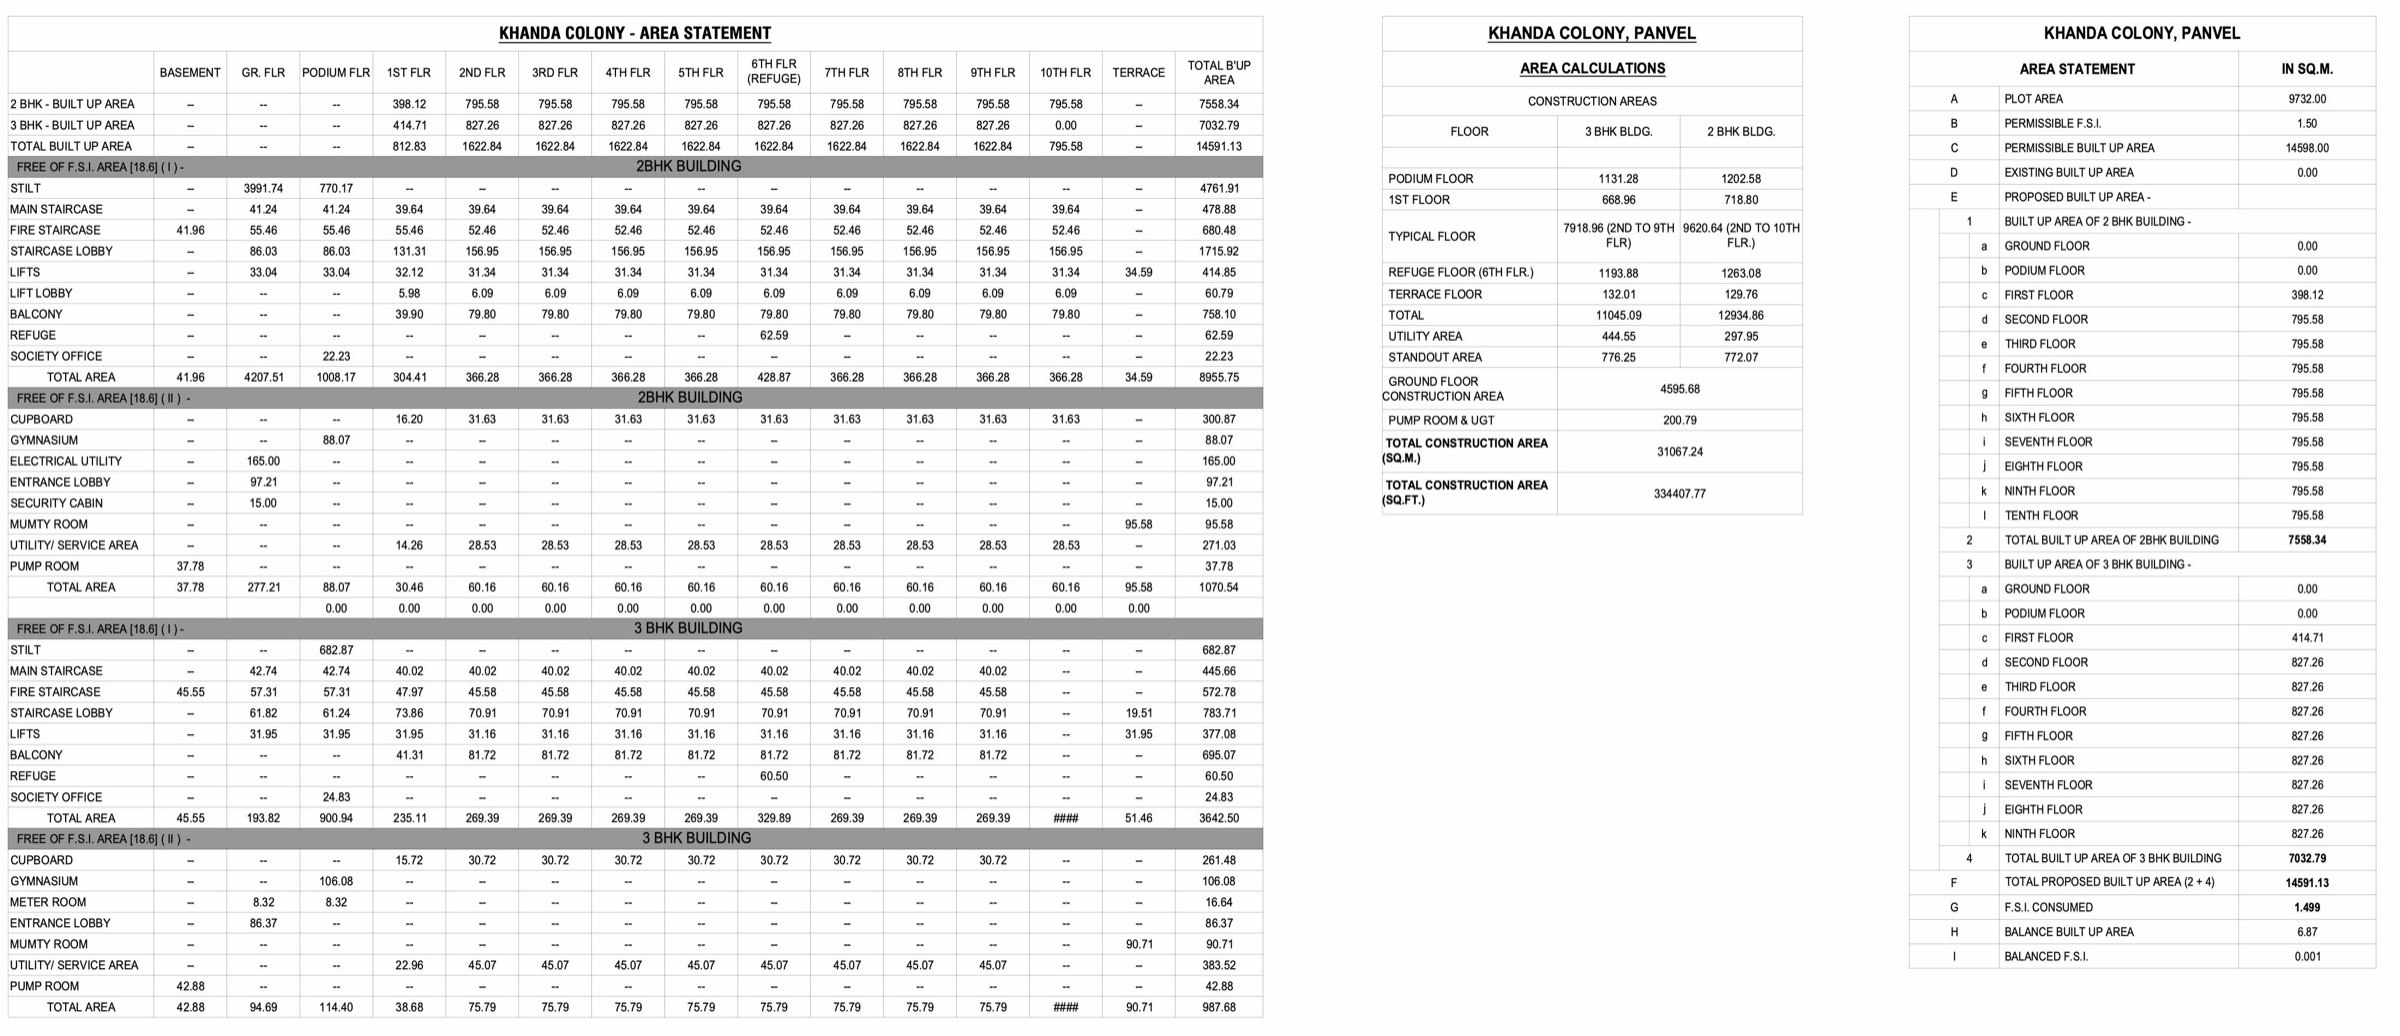
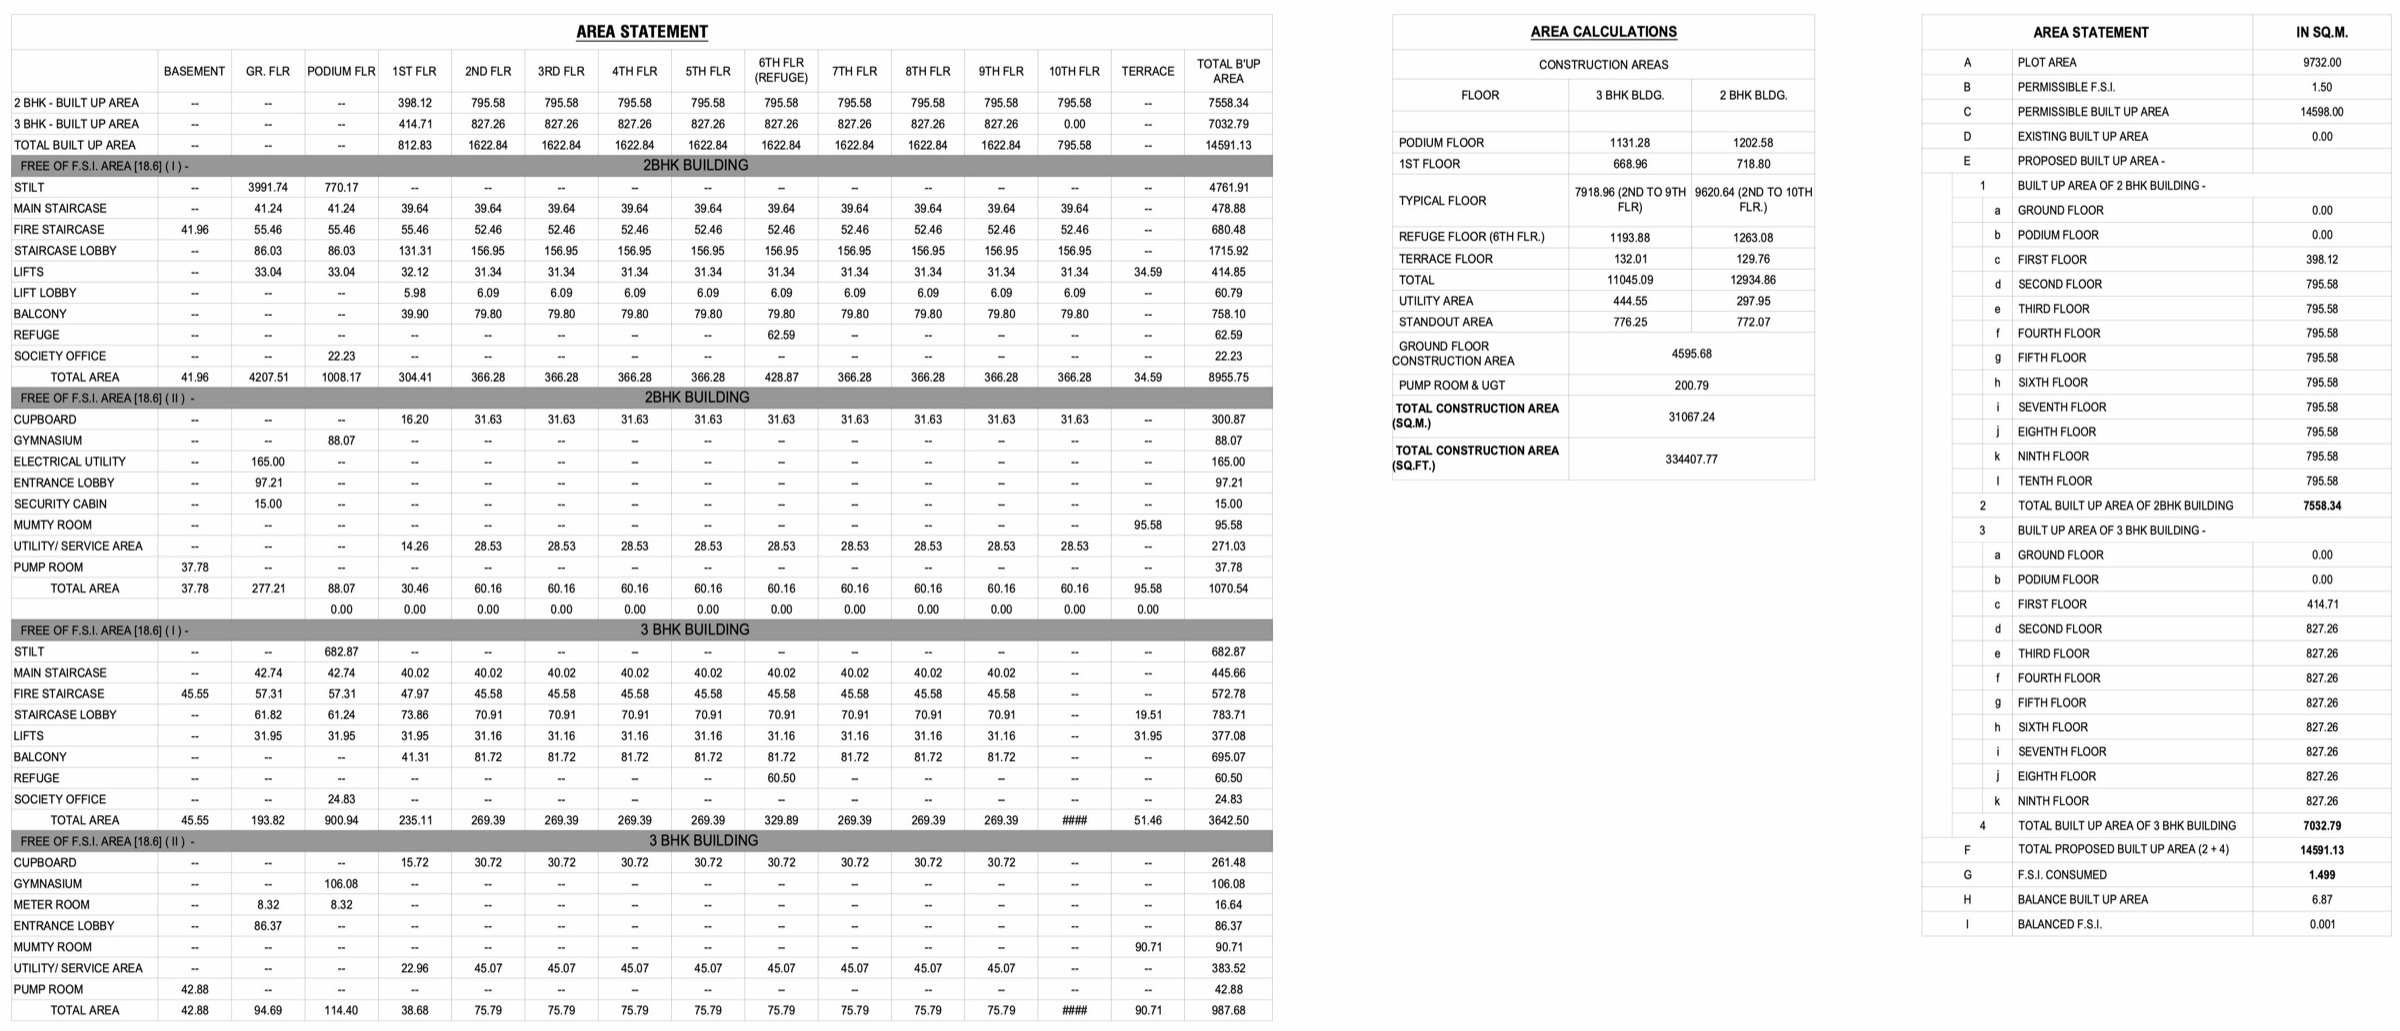
Replace Mid-Rise area statement with version without site name

diff --git a/js/data.js b/js/data.js
@@ -184,7 +184,7 @@ window.PROJECTS = [
       { src: "images/web/mid-rise/view-5.jpg", caption: "Exterior view of the second building" },
       { src: "images/web/mid-rise/unit-2bhk.jpg", caption: "2 BHK unit, 3D plan" },
       { src: "images/web/mid-rise/unit-3bhk.jpg", caption: "3 BHK unit, 3D plan" },
-      { src: "images/web/mid-rise/area-statement.jpg", caption: "Area statement and FSI calculation" },
+      { src: "images/web/mid-rise/area-statement.jpg?v=2", caption: "Area statement and FSI calculation" },
     ],
     art: { type: "wings", tone: "clay" },
     summary:
